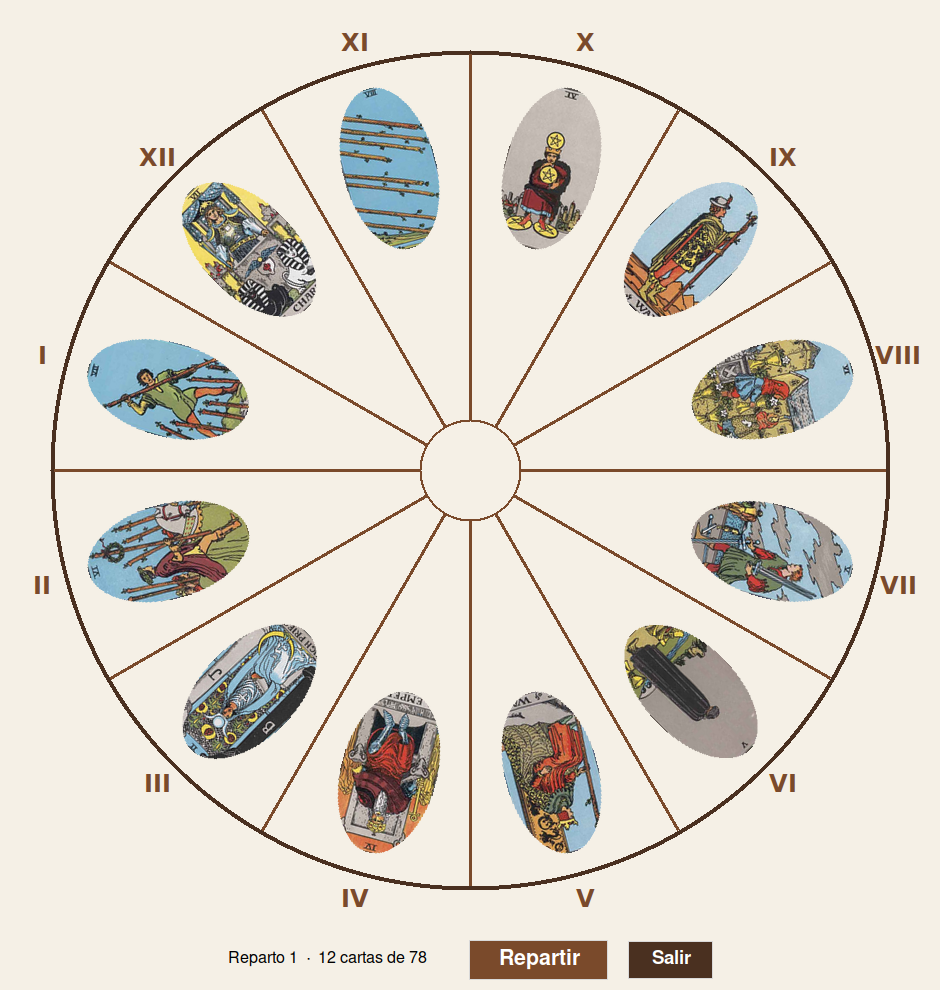
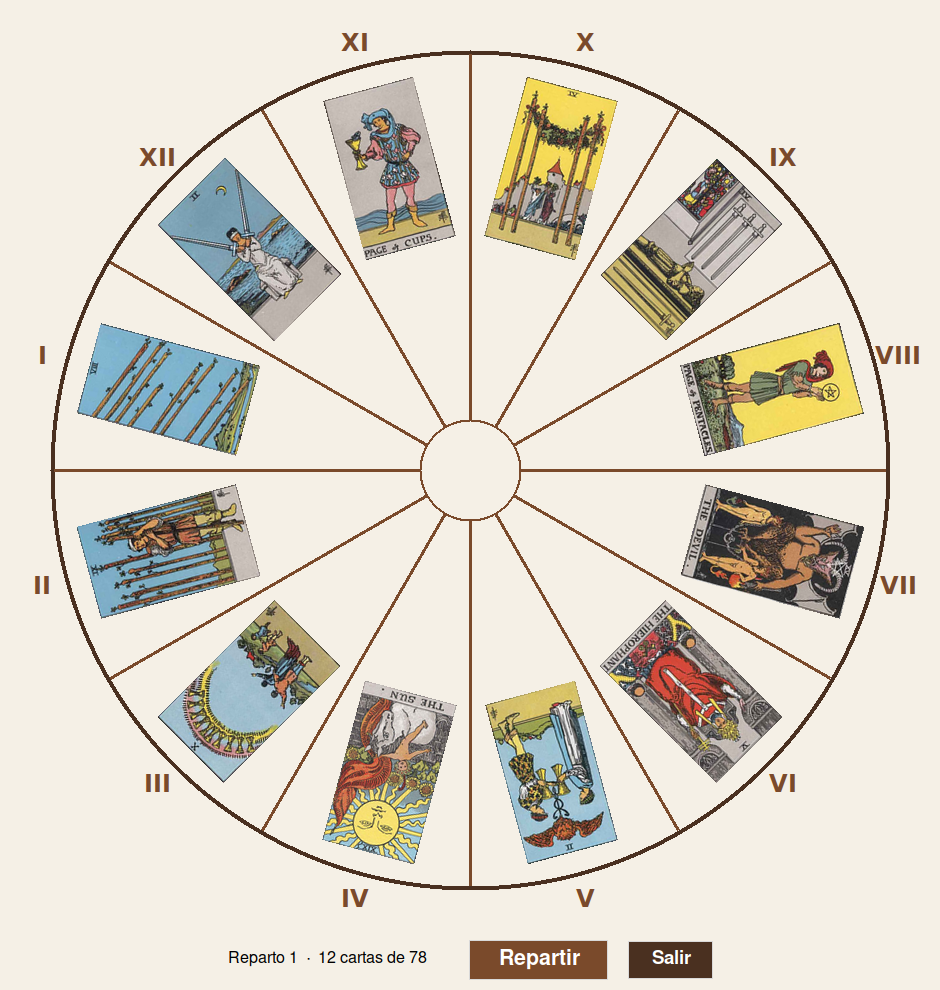
corrección redondeo

diff --git a/repartir_12_signos.py b/repartir_12_signos.py
@@ -12,7 +12,7 @@ import subprocess
 import sys
 
 import tkinter as tk
-from PIL import Image, ImageDraw, ImageTk
+from PIL import Image, ImageTk
 
 
 BASE = os.path.dirname(os.path.abspath(__file__))
@@ -184,20 +184,16 @@ class RuedaDoceApp:
             20,
             int(math.radians(PASO_SECCION) * self.geo["r_carta_int"] * 0.88),
         )
-        im = base
+        im = base.convert("RGBA")
         if im.width > max_ancho:
             factor = max_ancho / im.width
             im = im.resize((max_ancho, max(1, int(im.height * factor))), Image.LANCZOS)
 
-        ancho, alto = im.size
-        mascara = Image.new("L", (ancho, alto), 0)
-        ImageDraw.Draw(mascara).ellipse([0, 0, ancho - 1, alto - 1], fill=255)
-
         ang_pil = (-90.0 - ang) % 360.0
-        im = im.rotate(ang_pil, expand=True, resample=Image.BICUBIC,
-                       fillcolor=COLORES["fondo"])
-        mascara = mascara.rotate(ang_pil, expand=True, resample=Image.BICUBIC)
-        im.putalpha(mascara)
+        im = im.rotate(
+            ang_pil, expand=True, resample=Image.BICUBIC,
+            fillcolor=(0, 0, 0, 0),
+        )
         return ImageTk.PhotoImage(im)
 
     def reiniciar_lienzo(self):

diff --git a/README.md b/README.md
@@ -47,7 +47,8 @@ finas las porciones de 10°.
 `repartir_12_signos.py` dibuja una rueda dividida en **12 secciones de 30°** y
 reparte **una carta aleatoria en cada sección**, sin repetición, tomándola de
 las 78 cartas disponibles. Las cartas se colocan en el centro de cada sección,
-con su parte superior hacia el exterior de la rueda.
+con su parte superior hacia el exterior de la rueda y conservan sus bordes
+rectangulares.
 
 <p align="center">
   <img src="docs/rueda_12_signos.png" alt="Rueda de 12 cartas con signos zodiacales" width="520">
@@ -57,7 +58,8 @@ con su parte superior hacia el exterior de la rueda.
 
 `repartir_12_casas.py` es una variante de la rueda de 12
 cartas que sustituye los símbolos zodiacales por los **números romanos del I al
-XII**, manteniendo una carta aleatoria por sección.
+XII**, manteniendo una carta aleatoria por sección y los bordes rectangulares
+de las cartas.
 
 <p align="center">
   <img src="docs/rueda_12_casas.png" alt="Rueda de 12 cartas con números romanos" width="520">
@@ -86,8 +88,9 @@ el superior izquierdo y el **Sol** en el centro.
 - Cuatro modalidades: 36 cartas en porciones de 10°, 12 cartas con símbolos
   zodiacales, 12 cartas con números romanos o 7 cartas sobre un hexagrama
   unicursal.
-- Cartas rotadas con `Pillow`; en las ruedas se recortan en forma de elipse y
-  en el hexagrama conservan sus bordes rectangulares.
+- Cartas rotadas con `Pillow`; solo la rueda de 36 usa recorte elíptico, mientras
+  que las ruedas de 12 y el hexagrama conservan bordes rectangulares con
+  esquinas transparentes.
 - La ventana se **ajusta automáticamente a la resolución de la pantalla**;
   todos los elementos de la rueda se escalan de forma proporcional.
 - Contador de repartos y total de cartas usado.
@@ -179,10 +182,11 @@ astrotarot/
   sus 6 vértices. Las 6 cartas exteriores se colocan en esos vértices y la
   séptima en el centro. Encima de cada carta se dibuja su símbolo planetario.
 - **Reparto:** `random.sample` elige 36 cartas de las 78 (o 12, o 7 según la
-  figura); cada carta se redimensiona con Pillow. En las ruedas se recorta en
-  forma de elipse y se rota según la inclinación de su porción o sección; en el
-  hexagrama se mantienen los bordes rectangulares con las esquinas
-  transparentes y todas las cartas quedan derechas.
+  figura); cada carta se redimensiona con Pillow. En la rueda de 36 se recorta
+  en forma de elipse y se rota según la inclinación de su porción; en las ruedas
+  de 12 se rota cada carta manteniendo sus bordes rectangulares con esquinas
+  transparentes. En el hexagrama las cartas también conservan sus bordes
+  rectangulares y quedan todas derechas.
 - **Ajuste a pantalla:** el tamaño del lienzo se calcula a partir de
   `winfo_screenwidth/height` dejando márgenes para la barra de botones; las
   dimensiones de la rueda o figura y el tamaño de las cartas se escalan
